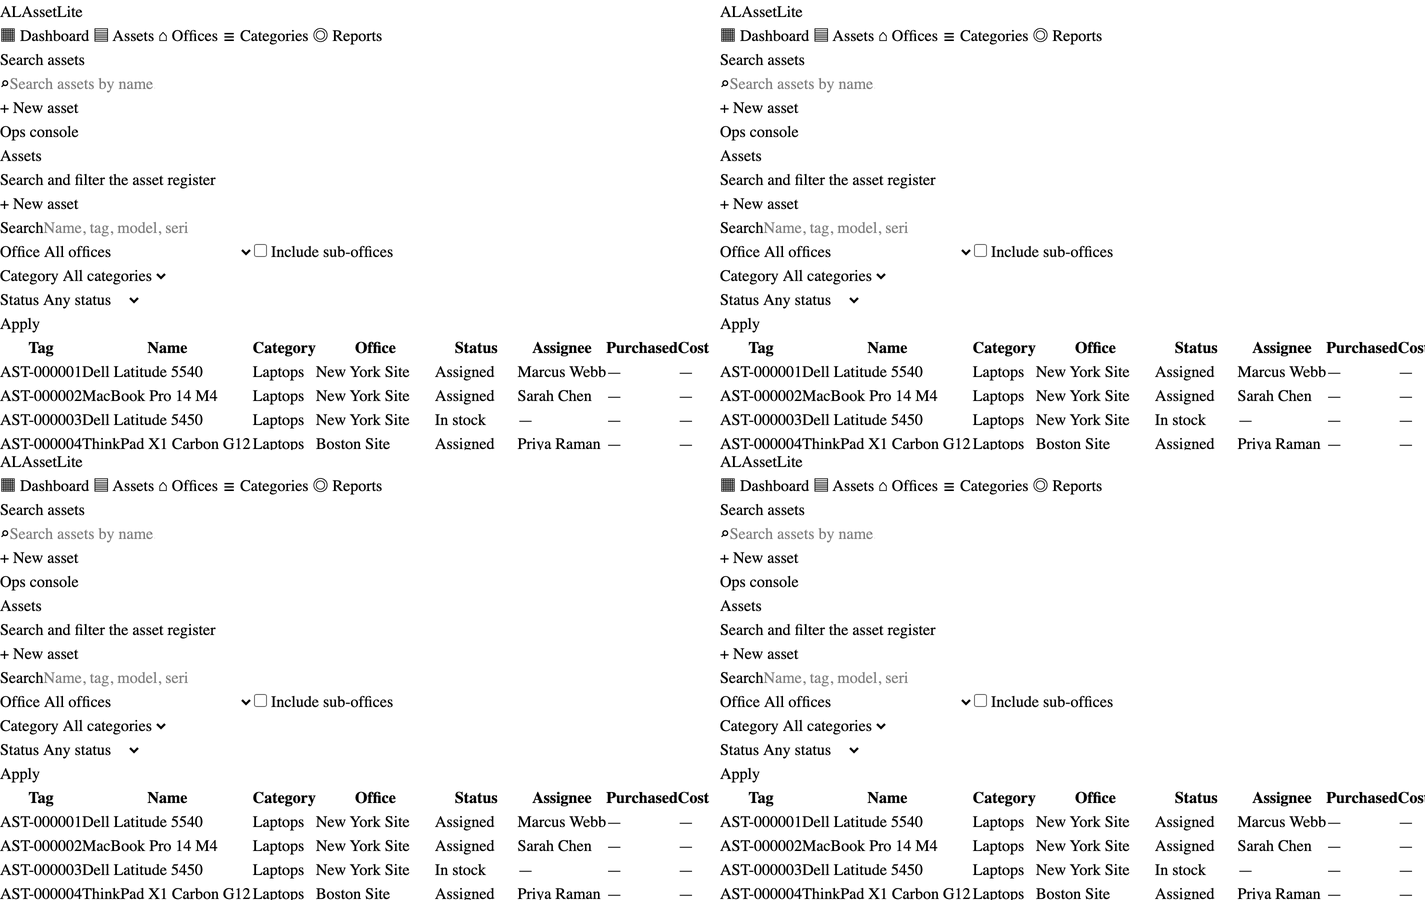
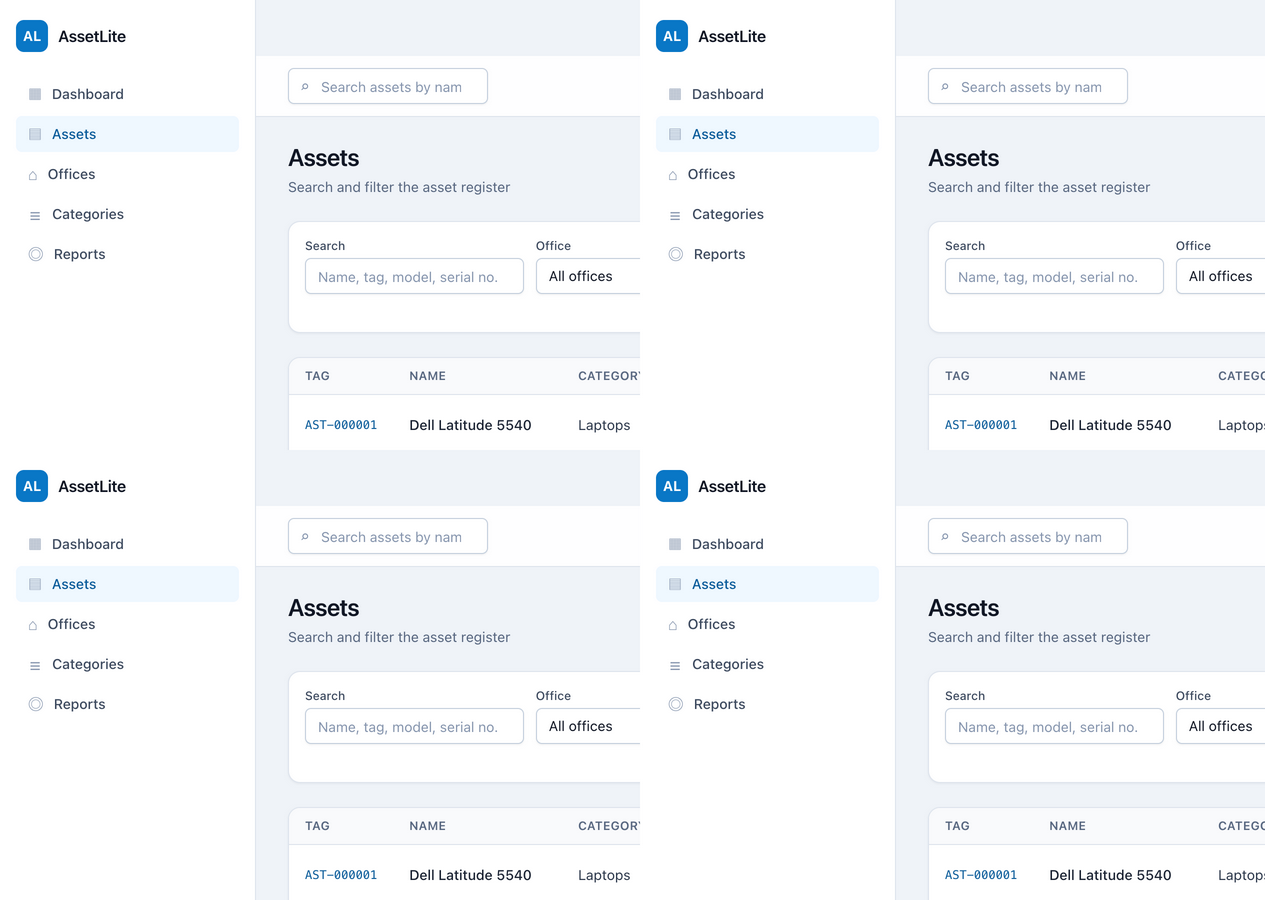
docs: postmortem for the silent Tailwind failure, refreshed screenshots
Challenge 7 in the process doc records the full trail of the
postcss.config.mjs / .postcssrc.json defect - why every test stayed
green while the app rendered unstyled, how the served bytes exposed
it, and what changed in the verification loop. Screenshots retaken
from the working build (the previous captures predated the fix and
showed the unstyled render); README copy now mentions that assets
can be corrected, not just registered.

diff --git a/docs/requirements-and-process.md b/docs/requirements-and-process.md
@@ -68,6 +68,16 @@ weeks. The requirements below were written as the product brief for this project
    unshipped; evaluated and deferred with reasons in [ADR 0003](adr/0003-typescript-version.md).
 6. **QuestPDF 2026 API changes** - `PageSizes.A4.Landscape()` became a method and column
    syntax changed; the export code follows the current fluent API (not the older docs).
+7. **Tailwind silently not compiling** - the frontend shipped `postcss.config.mjs` (the
+   config format used by the generic Vite/webpack ecosystem), but the Angular CLI only
+   auto-detects `.postcssrc.json`. Symptom: builds inlined raw `tailwindcss/index.css`
+   without running the Tailwind transform, so browsers received theme variables wrapped in
+   `@theme` at-rules they drop, and zero utility classes - an "unstyled" app that still
+   passed every test, because none of the specs assert computed styles. Diagnosis trail:
+   the served stylesheet contained `@theme default` blocks and no `.flex`/`.btn` rules.
+   Fix: rename the config to `.postcssrc.json`. Lesson recorded: when output looks wrong,
+   inspect the bytes the client actually receives before blaming the client - and a
+   styling smoke check belongs in the verification loop, not only component specs.
 
 ## Development process (commit order)
 

diff --git a/README.md b/README.md
@@ -9,7 +9,8 @@
 Full-stack **IT asset & inventory management**: an ASP.NET Core Web API built with
 Domain-Driven Design and Clean Architecture, an Angular 21 signals-first SPA with Tailwind CSS
 v4, and .NET Aspire orchestration. Track computers, monitors, laptops, tablets and any
-equipment across a **hierarchy of offices** (HQ → regions → sites), generate **scannable
+equipment across a **hierarchy of offices** (HQ → regions → sites), register **and correct**
+assets through their lifecycle, generate **scannable
 barcode + QR labels**, search everything fast, and **export the asset register to Excel and
 PDF**.
 
